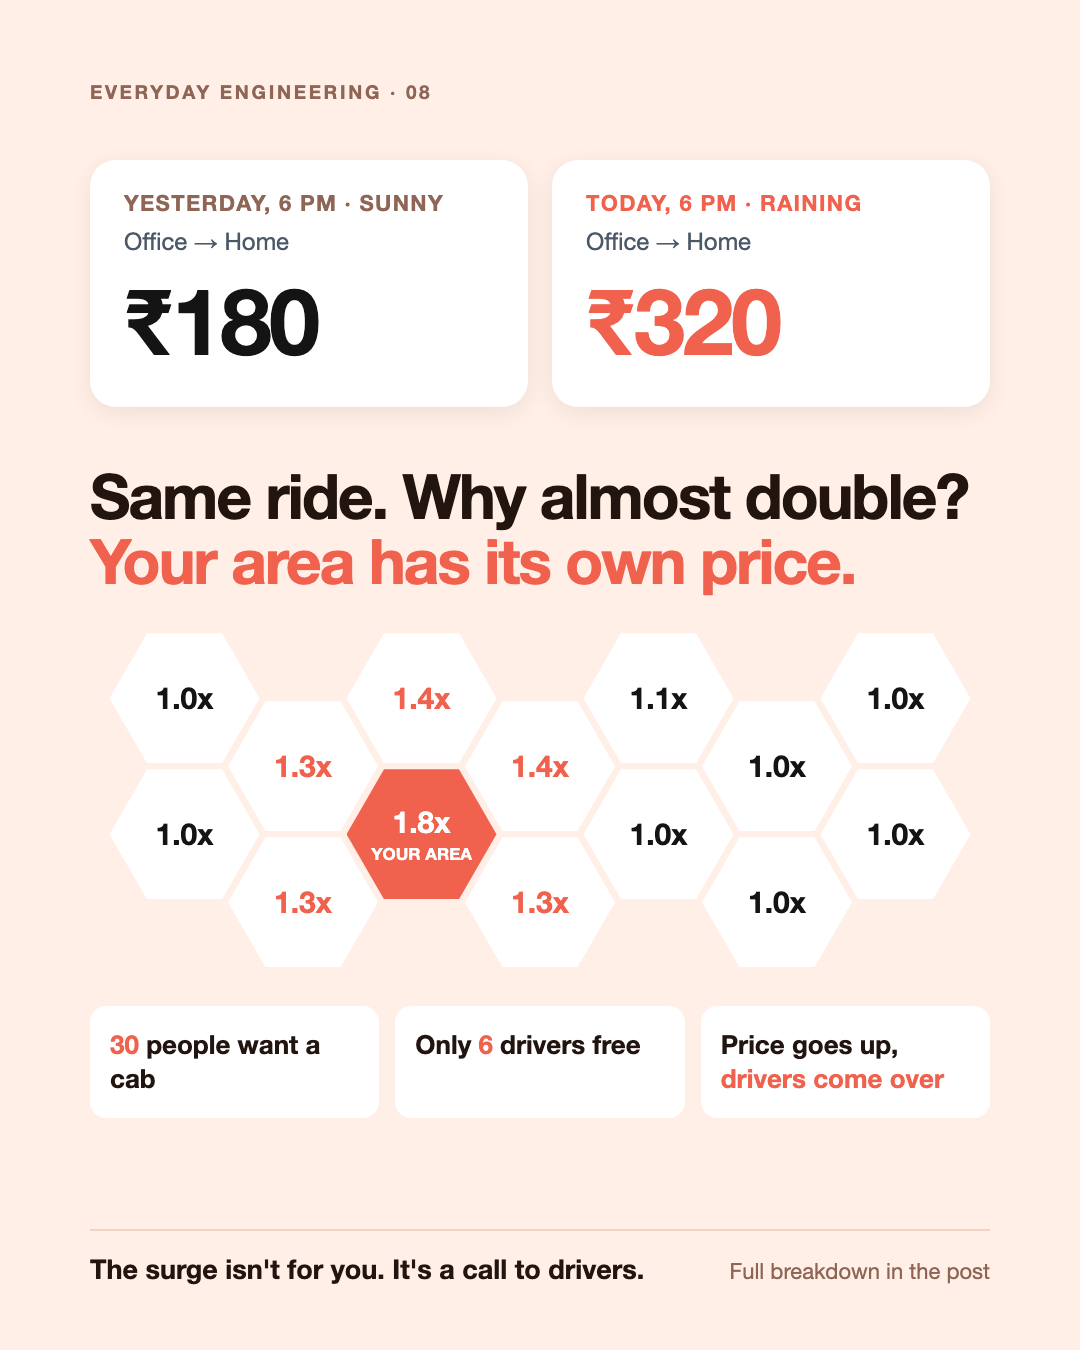
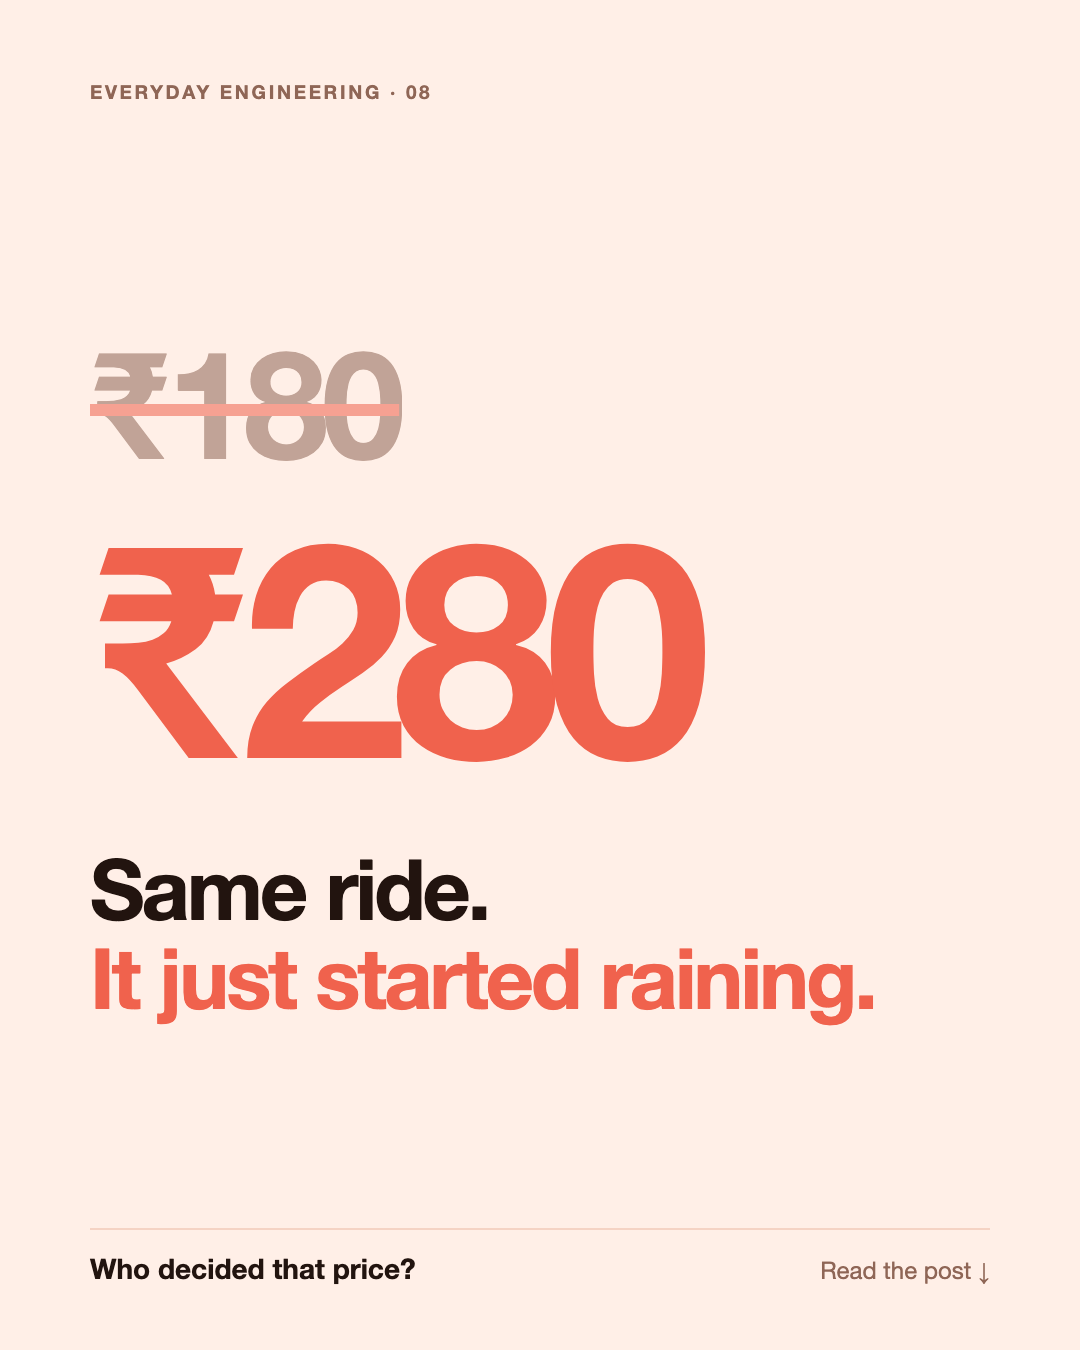
Post 08: minimal image (₹180 to ₹280), headline tweak

diff --git a/linkedin/images/08-surge-pricing-rain.html b/linkedin/images/08-surge-pricing-rain.html
@@ -1,98 +1,18 @@
-<!doctype html>
-<html>
-<head>
-<meta charset="utf-8">
-<style>
-  :root { --bg:#FFEFE7; --ink:#22140F; --muted:#8F6656; --accent:#F0624D; --card:#FFFFFF; --cardInk:#141414; --line:#F5D3C4; --hex:#FFFFFF; }
-  * { margin: 0; padding: 0; box-sizing: border-box; }
-  html, body { width: 1080px; height: 1350px; }
-  body {
-    background: var(--bg); color: var(--ink);
-    font-family: -apple-system, "Helvetica Neue", Helvetica, Arial, sans-serif;
-    display: flex; flex-direction: column;
-    padding: 80px 90px 64px;
-  }
-  .series { font-size: 19px; letter-spacing: 0.14em; text-transform: uppercase; color: var(--muted); font-weight: 600; }
+<!doctype html><html><head><meta charset="utf-8"><style>
+:root{--bg:#FFEFE7;--ink:#22140F;--muted:#8F6656;--accent:#F0624D;--card:#FFFFFF;--line:#F5D3C4}
+*{margin:0;padding:0;box-sizing:border-box}html,body{width:1080px;height:1350px}
+body{background:var(--bg);color:var(--ink);font-family:-apple-system,"Helvetica Neue",Helvetica,Arial,sans-serif;display:flex;flex-direction:column;padding:80px 90px 64px}
+.series{font-size:19px;letter-spacing:.14em;text-transform:uppercase;color:var(--muted);font-weight:600}
+.foot{margin-top:auto;padding-top:22px;border-top:2px solid var(--line);display:flex;justify-content:space-between;align-items:baseline;font-size:24px;color:var(--muted)}
+.foot b{color:var(--ink);font-size:28px}
+.c{flex:1;display:flex;flex-direction:column;justify-content:center}
+.big{font-size:84px;font-weight:800;letter-spacing:-.035em;line-height:1.05}
+.big span{color:var(--accent)}
+.sub{margin-top:28px;font-size:36px;font-weight:600;color:var(--muted);line-height:1.3}
 
-  /* two quotes */
-  .quotes { margin-top: 56px; display: flex; gap: 24px; }
-  .quote { flex: 1; background: var(--card); color: var(--cardInk); border-radius: 26px; padding: 30px 34px; box-shadow: 0 6px 24px rgba(0,0,0,0.07); }
-  .when { font-size: 22px; font-weight: 700; color: var(--muted); letter-spacing: 0.06em; text-transform: uppercase; }
-  .quote.rain .when { color: var(--accent); }
-  .route { margin-top: 10px; font-size: 24px; color: #4A5868; }
-  .price { margin-top: 8px; font-size: 92px; font-weight: 800; letter-spacing: -0.03em; }
-  .quote.rain .price { color: var(--accent); }
-
-  .q { margin-top: 56px; font-size: 62px; font-weight: 800; letter-spacing: -0.03em; line-height: 1.05; }
-  .q span { color: var(--accent); }
-
-  /* hex map */
-  .map { margin-top: 40px; position: relative; height: 345px; }
-  .hex {
-    position: absolute; width: 150px; height: 130px;
-    clip-path: polygon(25% 0, 75% 0, 100% 50%, 75% 100%, 25% 100%, 0 50%);
-    background: var(--hex); display: flex; flex-direction: column; align-items: center; justify-content: center;
-    font-weight: 800; font-size: 30px; color: var(--cardInk);
-  }
-  .hex small { font-size: 17px; font-weight: 600; color: var(--muted); margin-top: 2px; }
-  .hex.hot { background: var(--accent); color: #FFFFFF; }
-  .hex.hot small { color: #FFFFFF; }
-  .hex.warm { color: var(--accent); }
-
-  .why { margin-top: 28px; display: flex; gap: 16px; }
-  .chip { flex: 1; background: var(--card); border-radius: 16px; padding: 22px 20px; font-size: 26px; font-weight: 700; line-height: 1.3; }
-  .chip b { color: var(--accent); }
-
-  .foot { margin-top: auto; padding-top: 22px; border-top: 2px solid var(--line); display: flex; justify-content: space-between; align-items: baseline; font-size: 22px; color: var(--muted); }
-  .foot b { color: var(--ink); font-size: 27px; }
-</style>
-</head>
-<body>
-  <div class="series">Everyday Engineering · 08</div>
-
-  <div class="quotes">
-    <div class="quote">
-      <div class="when">Yesterday, 6 pm · Sunny</div>
-      <div class="route">Office → Home</div>
-      <div class="price">₹180</div>
-    </div>
-    <div class="quote rain">
-      <div class="when">Today, 6 pm · Raining</div>
-      <div class="route">Office → Home</div>
-      <div class="price">₹320</div>
-    </div>
-  </div>
-
-  <div class="q">Same ride. Why almost double?<br><span>Your area has its own price.</span></div>
-
-  <div class="map" id="map"></div>
-
-  <div class="why">
-    <div class="chip"><b>30</b> people want a cab</div>
-    <div class="chip">Only <b>6</b> drivers free</div>
-    <div class="chip">Price goes up, <b>drivers come over</b></div>
-  </div>
-
-  <div class="foot"><b>The surge isn't for you. It's a call to drivers.</b><span>Full breakdown in the post</span></div>
-
-<script>
-  // honeycomb: flat-top hexes, 170 wide x 150 tall
-  const W = 150, H = 130, dx = W * 0.75 + 6, dy = H + 6;
-  const cells = [
-    // [col, row, label, cls]  odd columns sit half a row lower
-    [0,0,'1.0x',''],[1,0,'1.3x','warm'],[2,0,'1.4x','warm'],[3,0,'1.4x','warm'],[4,0,'1.1x',''],[5,0,'1.0x',''],[6,0,'1.0x',''],
-    [0,1,'1.0x',''],[1,1,'1.3x','warm'],[2,1,'1.8x<small>YOUR AREA</small>','hot'],[3,1,'1.3x','warm'],[4,1,'1.0x',''],[5,1,'1.0x',''],[6,1,'1.0x',''],
-  ];
-  const map = document.getElementById('map');
-  const offsetX = (900 - (6 * dx + W)) / 2;
-  for (const [c, r, label, cls] of cells) {
-    const el = document.createElement('div');
-    el.className = 'hex ' + cls;
-    el.style.left = (offsetX + c * dx) + 'px';
-    el.style.top = (r * dy + (c % 2 ? dy / 2 : 0)) + 'px';
-    el.innerHTML = label;
-    map.appendChild(el);
-  }
-</script>
-</body>
-</html>
+.old{font-size:150px;font-weight:800;color:var(--muted);opacity:.55;text-decoration:line-through;text-decoration-thickness:12px;text-decoration-color:var(--accent);letter-spacing:-.04em}
+.new{font-size:300px;font-weight:800;color:var(--accent);letter-spacing:-.05em;line-height:1}
+</style></head><body><div class="series">Everyday Engineering · 08</div>
+<div class="c"><div class="old">₹180</div><div class="new">₹280</div>
+<div class="big" style="margin-top:50px">Same ride.<br><span>It just started raining.</span></div></div>
+<div class="foot"><b>Who decided that price?</b><span>Read the post ↓</span></div></body></html>

diff --git a/linkedin/posts/08-surge-pricing-rain.md b/linkedin/posts/08-surge-pricing-rain.md
@@ -1,4 +1,4 @@
-# Post 08: Why the cab price almost doubles when it rains
+# Post 08: Why the cab price jumps when it rains
 
 **Status:** draft (for 2026-11-27) · **Topic:** apps & daily life · **Image:** `images/08-surge-pricing-rain.png`
 
@@ -9,9 +9,9 @@ Copy from the box below (GitHub has a copy button at its top right). Line breaks
 ```text
 Everyday Engineering #8
 
-Why does the cab price almost double when it rains?
+Why does the cab price jump when it rains?
 
-Yesterday at 6 pm, my usual ride home cost ₹180. Today it was raining, and the same ride showed ₹320. My first thought was that the app was cashing in on the rain. So I looked into how that price is actually decided, and it turns out to be a neat piece of engineering.
+Yesterday at 6 pm, my usual ride home cost ₹180. Today it was raining, and the same ride showed ₹280. My first thought was that the app was cashing in on the rain. So I looked into how that price is actually decided, and it turns out to be a neat piece of engineering.
 
 Here's how it works, in 5 steps:
 
@@ -41,7 +41,7 @@ Here's how it works, in 5 steps:
 
 The trade-off is a real one. If the price rises too fast, people feel cheated at the worst moment of their day. If it rises too slowly, everyone gets stuck. That's partly why India's rules now put a cap on how high it can go.
 
-So the ₹320 isn't really a price aimed at you. It's a message to the drivers saying "we need you here."
+So the ₹280 isn't really a price aimed at you. It's a message to the drivers saying "we need you here."
 
 Do you pay the surge, or wait it out?
 
@@ -51,7 +51,7 @@ Do you pay the surge, or wait it out?
 ---
 
 ## Behind the post (for you, not for posting)
-- **Honesty check:** Uber has publicly explained surge pricing and its hexagon grid (it open-sourced H3, its hexagon system). Ola and Rapido haven't published how theirs works. The post describes the general pattern, not any one company's exact code. ₹180 and ₹320 are illustrative numbers.
+- **Honesty check:** Uber has publicly explained surge pricing and its hexagon grid (it open-sourced H3, its hexagon system). Ola and Rapido haven't published how theirs works. The post describes the general pattern, not any one company's exact code. ₹180 and ₹280 are illustrative numbers.
 - **Why hexagons and not squares:** every neighbour of a hexagon is the same distance from its centre. A square has 4 close neighbours and 4 diagonal ones that are further away, which makes "nearby demand" uneven. Hexagons also tile the map without gaps.
 - **"Every minute or so":** Uber has said surge prices update every few minutes. The exact interval isn't public and varies, so the post keeps it vague.
 - **The cap:** India's Motor Vehicle Aggregator Guidelines (2020) capped surge at 1.5x the base fare. Updated guidelines in 2025 allowed up to 2x. States implement these on their own, so it isn't the same everywhere. That's why the post just says "cap how high it can go." If someone asks for the number, say "2x the base fare under the 2025 central guidelines, depending on the state."
